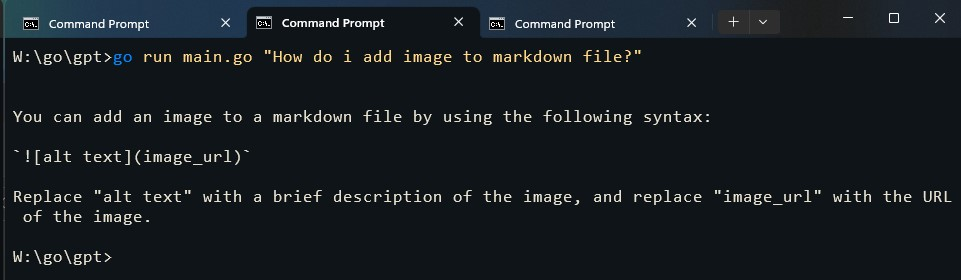
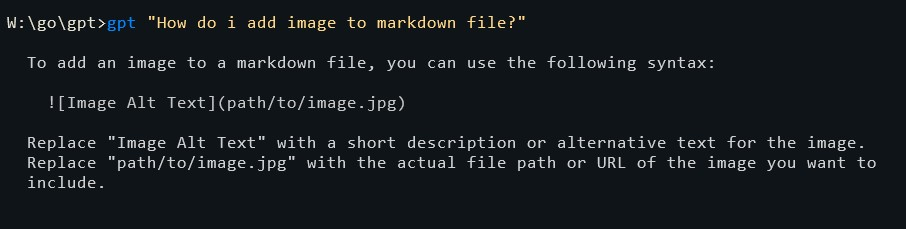
change engine to 3.5

diff --git a/main.go b/main.go
@@ -10,6 +10,7 @@ import (
     "encoding/json"
 )
 
+/* davinci engine
 type Choice struct {
     Text         string `json:"text"`
     Index           int `json:"index"`
@@ -19,6 +20,27 @@ type Choice struct {
 
 type Response struct {
     Choices []Choice `json:"choices"`
+}
+*/
+
+type Response struct {
+    ID       string `json:"id"`
+    Object   string `json:"object"`
+    Created  int64  `json:"created"`
+    Model    string `json:"model"`
+    Choices  []struct {
+        Index        int `json:"index"`
+        Message      struct {
+            Role    string `json:"role"`
+            Content string `json:"content"`
+        } `json:"message"`
+        FinishReason string `json:"finish_reason"`
+    } `json:"choices"`
+    Usage struct {
+        PromptTokens     int `json:"prompt_tokens"`
+        CompletionTokens int `json:"completion_tokens"`
+        TotalTokens      int `json:"total_tokens"`
+    } `json:"usage"`
 }
 
 func parseJSONResponse(jsonData string) (string, error) {
@@ -30,16 +52,18 @@ func parseJSONResponse(jsonData string) (string, error) {
 
     // Assuming theres only one choice in the choices array
     if len(data.Choices) > 0 {
-        return data.Choices[0].Text, nil
+        //return data.Choices[0].Text, nil
+        return data.Choices[0].Message.Content, nil
     }
 
     return "", fmt.Errorf("No choices found in the response")
 }
 
 func queryChatGPT(apiKey string, prompt string) string {
-    url := "https://api.openai.com/v1/engines/text-davinci-003/completions"
-    payload := strings.NewReader(fmt.Sprintf(`{"prompt": "%s", "temperature": 0.5, "max_tokens": 1000}`, prompt))
-
+    //url := "https://api.openai.com/v1/engines/text-davinci-003/completions"
+    //payload := strings.NewReader(fmt.Sprintf(`{"prompt": "%s", "temperature": 0.5, "max_tokens": 1000}`, prompt))
+    url := "https://api.openai.com/v1/chat/completions"
+    payload := strings.NewReader(fmt.Sprintf(`{ "model": "gpt-3.5-turbo", "messages": [{"role": "user", "content": "%s"}], "temperature": 0.7}`, prompt))
     req, _ := http.NewRequest("POST", url, payload)
     req.Header.Add("Content-Type", "application/json")
     req.Header.Add("Authorization", "Bearer "+apiKey)

diff --git a/README.md b/README.md
@@ -4,4 +4,3 @@ Windows batch file pipes the response to glow (required) https://github.com/char
 
 ![example](prompt.jpg)
 
-![example with glow](prompt2.jpg)
